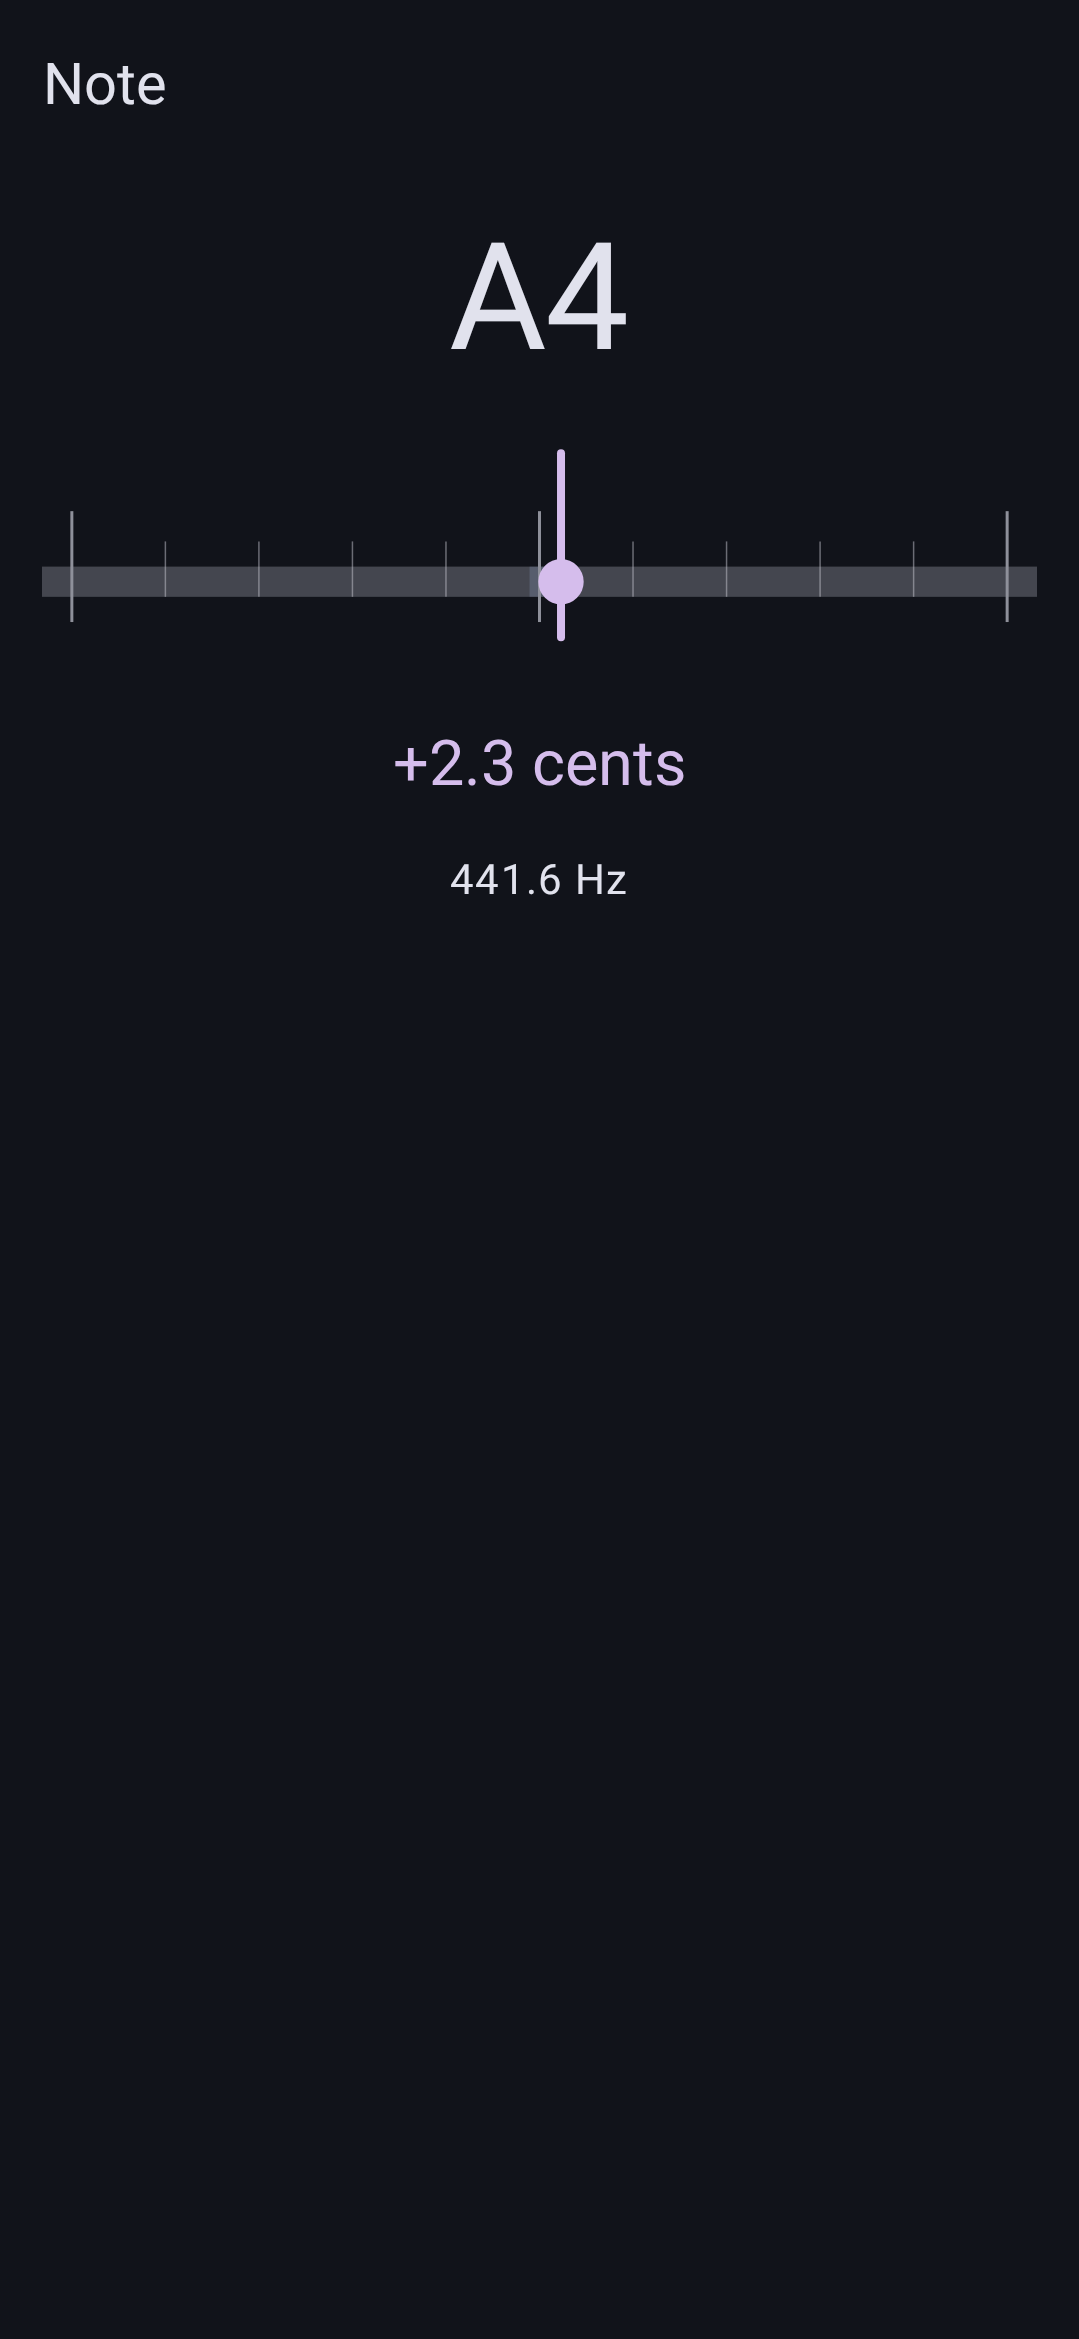
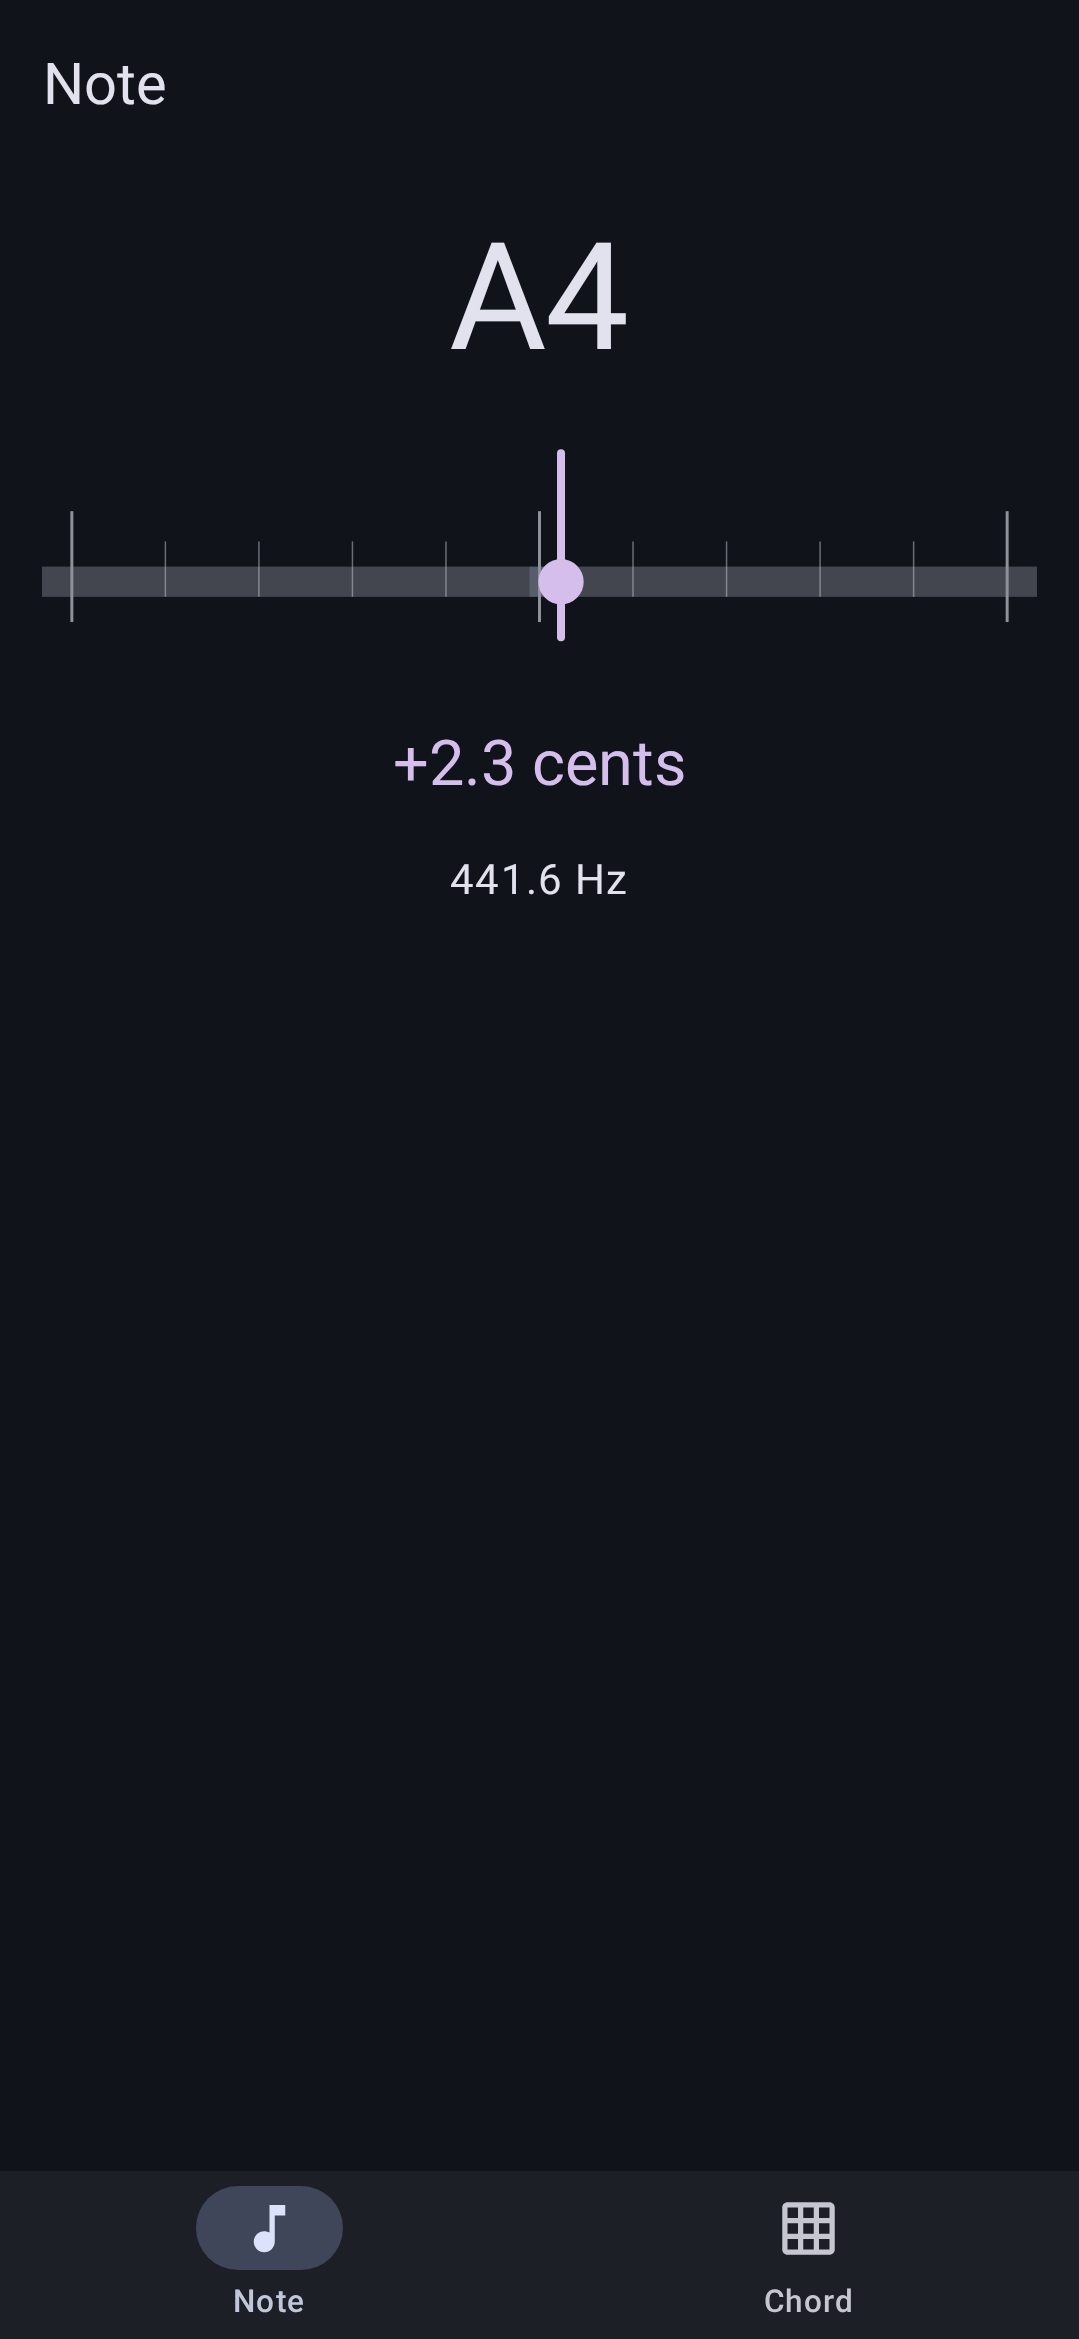
tuner: chord tab screenshot with chrome; auto agents flag

Changed region(s): [[0.1835, 0.9363, 0.3364, 0.9987], [0.7034, 0.9363, 0.7952, 0.9987]]

diff --git a/tuner/src/screenshotTest/kotlin/com/vayunmathur/tuner/ui/MetadataPreviews.kt b/tuner/src/screenshotTest/kotlin/com/vayunmathur/tuner/ui/MetadataPreviews.kt
@@ -1,15 +1,34 @@
 package com.vayunmathur.tuner.ui
 
+import androidx.compose.foundation.layout.Box
+import androidx.compose.foundation.layout.fillMaxSize
+import androidx.compose.foundation.pager.rememberPagerState
 import androidx.compose.runtime.Composable
+import androidx.compose.ui.Modifier
 import androidx.compose.ui.tooling.preview.Preview
 import com.android.tools.screenshot.PreviewTest
 import com.vayunmathur.library.ui.DynamicTheme
+import com.vayunmathur.library.ui.IconGrid
+import com.vayunmathur.library.ui.IconMusicNote
+import com.vayunmathur.library.ui.PagerTab
+import com.vayunmathur.library.ui.TabStyle
+import com.vayunmathur.library.ui.TabbedPagerScaffold
 import com.vayunmathur.tuner.data.AnalysisRange
 import com.vayunmathur.tuner.data.Instrument
 import com.vayunmathur.tuner.data.InstrumentKind
 import com.vayunmathur.tuner.data.KeyboardSpec
 import com.vayunmathur.tuner.data.StringSpec
+import com.vayunmathur.tuner.domain.ChordCandidate
+import com.vayunmathur.tuner.domain.ChordLabel
+import com.vayunmathur.tuner.domain.ChordName
+import com.vayunmathur.tuner.domain.ChordPresentation
+import com.vayunmathur.tuner.domain.ChordQuality
+import com.vayunmathur.tuner.domain.ChordReading
+import com.vayunmathur.tuner.domain.ChordTier
+import com.vayunmathur.tuner.domain.DetectedNote
 import com.vayunmathur.tuner.domain.TuningBand
+import com.vayunmathur.tuner.domain.Voicing
+import com.vayunmathur.tuner.platform.ChordUiState
 import com.vayunmathur.tuner.platform.NoteReadout
 import com.vayunmathur.tuner.platform.NoteUiState
 import com.vayunmathur.tuner.platform.TunerUiState
@@ -23,12 +42,12 @@ private const val EXPANDED = "spec:width=1280dp,height=800dp,dpi=240"
 /**
  * Store-listing images for `:tuner`, rendered from Compose previews.
  *
- * An instrumented test is not an option here: the screen is driven by live microphone audio,
+ * An instrumented test is not an option here: the screens are driven by live microphone audio,
  * and there is no way to feed a device a guitar. Literal state is the only reproducible source,
- * which is exactly why the screen is stateless.
+ * which is exactly why the screens are stateless.
  *
- * Only the Note tab is shown, because only the Note tab exists. The Chord tab is a placeholder
- * and screenshotting it would advertise a feature the app does not have.
+ * Note and Chord tabs render inside the real tab chrome ([ChromePreview]); only the
+ * selected tab is literal.
  */
 class MetadataPreviews {
 
@@ -73,7 +92,7 @@ class MetadataPreviews {
     @Preview(name = "1-note-in-tune", device = PHONE, group = "phone", showSystemUi = true)
     @Composable
     fun Preview1NoteInTune() {
-        DynamicTheme(darkTheme = true) {
+        ChromePreview(selectedTab = 0) {
             NoteScreen(
                 state = noteState(
                     guitar,
@@ -94,7 +113,7 @@ class MetadataPreviews {
     @Preview(name = "2-note-flat", device = PHONE, group = "phone", showSystemUi = true)
     @Composable
     fun Preview2NoteFlat() {
-        DynamicTheme(darkTheme = true) {
+        ChromePreview(selectedTab = 0) {
             NoteScreen(
                 state = noteState(
                     guitar,
@@ -115,7 +134,7 @@ class MetadataPreviews {
     @Preview(name = "3-note-piano-reference", device = PHONE, group = "phone", showSystemUi = true)
     @Composable
     fun Preview3NotePianoReference() {
-        DynamicTheme(darkTheme = true) {
+        ChromePreview(selectedTab = 0) {
             NoteScreen(
                 state = noteState(
                     piano,
@@ -136,7 +155,7 @@ class MetadataPreviews {
     @Preview(name = "4-note-expanded", device = EXPANDED, group = "large-tablet", showSystemUi = true)
     @Composable
     fun Preview4NoteExpanded() {
-        DynamicTheme(darkTheme = true) {
+        ChromePreview(selectedTab = 0) {
             NoteScreen(
                 state = noteState(
                     guitar,
@@ -149,6 +168,73 @@ class MetadataPreviews {
                         band = TuningBand.IN_TUNE,
                     ),
                 ),
+            )
+        }
+    }
+
+    @PreviewTest
+    @Preview(name = "5-chord-g-major", device = PHONE, group = "phone", showSystemUi = true)
+    @Composable
+    fun Preview5ChordGMajor() {
+        // A strummed open-G shape, confidently named: G major (G3+B3+D4) with the
+        // recommended open voicing, so the diagram pager has its primary page.
+        ChromePreview(selectedTab = 1) {
+            ChordScreen(
+                state = noteState(guitar, NoteReadout(midi = 55, letter = "G", octave = 3, frequencyHz = 196.0, cents = 1.2, band = TuningBand.IN_TUNE)).copy(
+                    chord = ChordUiState(
+                        reading = ChordReading(
+                            notes = listOf(
+                                DetectedNote(midi = 55, salience = 0.9),
+                                DetectedNote(midi = 59, salience = 0.75),
+                                DetectedNote(midi = 62, salience = 0.7),
+                            ),
+                            bass = 55,
+                            bassConfidence = 0.85f,
+                            label = ChordLabel.Chord(ChordName(root = 55, quality = ChordQuality.MAJOR)),
+                            alternates = listOf(
+                                ChordCandidate(ChordName(root = 64, quality = ChordQuality.MAJOR), 0.31f),
+                            ),
+                            confidence = 0.92f,
+                            tier = ChordTier.CONFIRMED,
+                            presentation = ChordPresentation.CONFIDENT,
+                        ),
+                        voicings = listOf(
+                            Voicing(
+                                frets = listOf(3, 2, 0, 0, 0, 3),
+                                barreFret = null,
+                                fingerCount = 3,
+                                soundingMidi = listOf(55, 59, 62, 67, 71, 55),
+                                cost = 0.0,
+                                isPrimary = true,
+                            ),
+                        ),
+                    ),
+                ),
+                onSelectInstrument = {},
+            )
+        }
+    }
+
+    /**
+     * The app's real tab chrome around preview screen content: the same
+     * [TabbedPagerScaffold] with the same Note/Chord tabs `TunerTabs` declares.
+     * Only the selected tab is literal.
+     */
+    @Composable
+    private fun ChromePreview(selectedTab: Int, content: @Composable () -> Unit) {
+        DynamicTheme(darkTheme = true) {
+            val tabs = listOf(
+                PagerTab("Note", { IconMusicNote() }) {
+                    if (selectedTab == 0) content() else Box(Modifier.fillMaxSize())
+                },
+                PagerTab("Chord", { IconGrid() }) {
+                    if (selectedTab == 1) content() else Box(Modifier.fillMaxSize())
+                },
+            )
+            TabbedPagerScaffold(
+                tabs = tabs,
+                pagerState = rememberPagerState(initialPage = selectedTab, pageCount = { tabs.size }),
+                tabStyle = TabStyle.BottomNav,
             )
         }
     }

diff --git a/auto/AGENTS.md b/auto/AGENTS.md
@@ -9,7 +9,7 @@ _Install: ./install auto (dev by default)._
 - Entry files: MainActivity.kt, Route.kt, Navigation.kt
 - Deps: :auto:protocol (`:library:carhost` only if the build file says so — verify before adding)
 - Metadata: metadata_data/auto.md (present)
-- Rust: no / screenshotTest: no
+- Rust: no / screenshotTest: yes (phone status/pairing/pinned-apps previews)
 
 ## Overview
 **Purpose:** Car head-unit projection (Android Auto compatible) — NOT a phone app. Projects driving-safe nav/media/call UI to the car display over USB or wireless; test with `./dhu` (Desktop Head Unit loopback), not on a phone screen.
